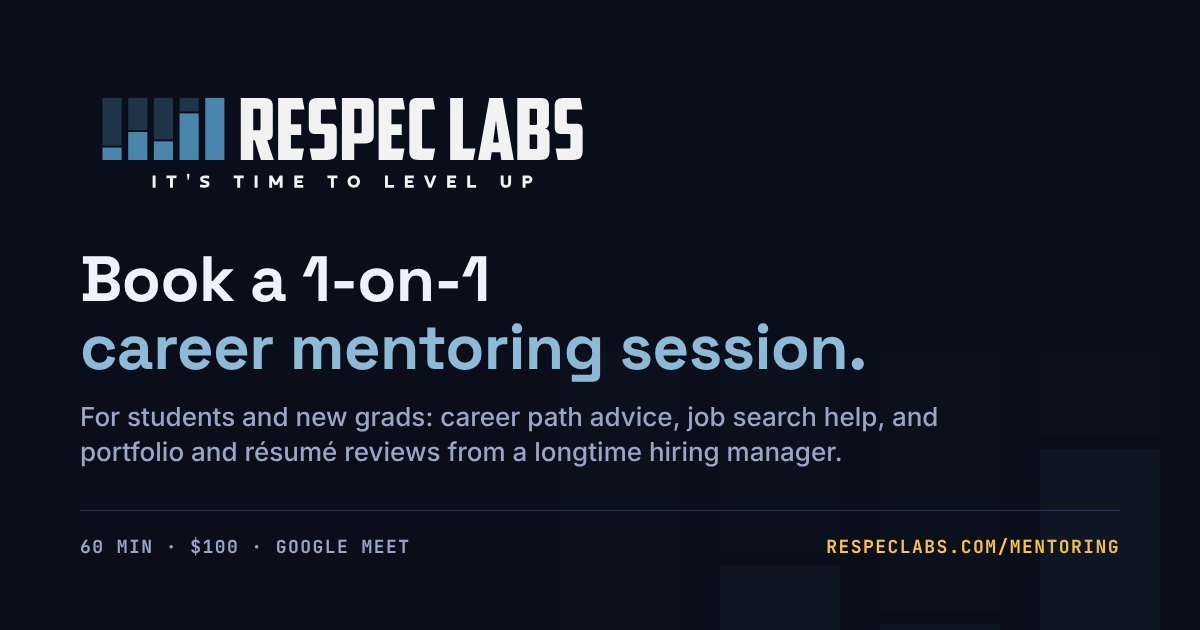
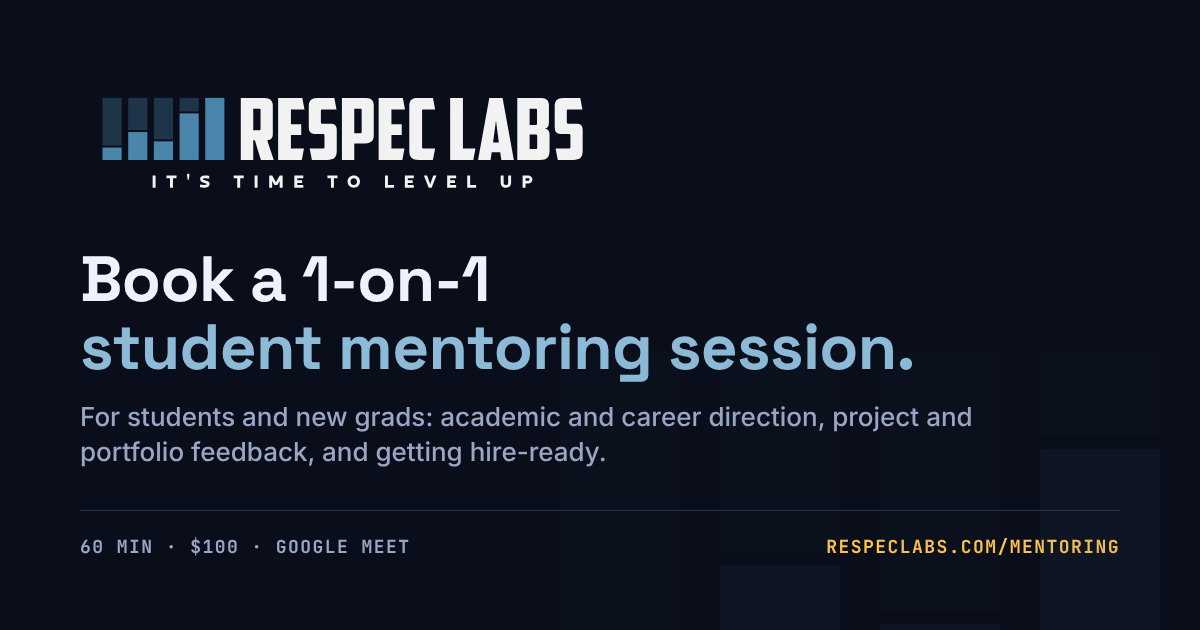
Tighten the four classes: Studio Strategist (consulting + fractional leadership), Pro Coach (professionals and job seekers), Academy Advisor (schools), Student Mentor (students at a student rate); update form, SEO, llms.txt, and /mentoring card
Claude-Session: https://claude.ai/code/session_01UxKuUrLDhhqrnA9ag9QBPw

Changed region(s): [[0.0617, 0.5127, 0.7708, 0.6032], [0.1542, 0.6333, 0.8017, 0.754]]

diff --git a/index.html b/index.html
@@ -48,10 +48,10 @@
         "@type": "OfferCatalog",
         "name": "Respec Labs services",
         "itemListElement": [
-          { "@type": "Offer", "itemOffered": { "@type": "Service", "name": "Studio Strategist: game studio consulting", "serviceType": "Game development consulting", "description": "Design team structure, hiring strategy, project direction, scope and milestone planning, and development advisory.", "audience": { "@type": "Audience", "audienceType": "Game studios and development teams" } } },
-          { "@type": "Offer", "itemOffered": { "@type": "Service", "name": "Interim Leader & Coach: fractional design leadership", "serviceType": "Fractional design leadership and coaching", "description": "Interim design leadership, management development, career advancement, mentorship, and workplace communication.", "audience": { "@type": "Audience", "audienceType": "Leads and game industry professionals" } } },
-          { "@type": "Offer", "itemOffered": { "@type": "Service", "name": "Academy Advisor: game design academic advisory", "serviceType": "Academic advisory", "description": "Game design curriculum development, program consulting, workshops, guest lectures, and career preparation.", "audience": { "@type": "Audience", "audienceType": "Schools and game design programs" } } },
-          { "@type": "Offer", "itemOffered": { "@type": "Service", "name": "Career Mentor: career mentoring for students and new grads", "serviceType": "Career mentoring", "description": "One-on-one career path advice, job search strategy, portfolio, website, résumé reviews, and interview prep from a longtime hiring manager and educator.", "audience": { "@type": "Audience", "audienceType": "Students, recent graduates, and entry-level candidates" } } }
+          { "@type": "Offer", "itemOffered": { "@type": "Service", "name": "Studio Strategist: game studio consulting and fractional design leadership", "serviceType": "Game development consulting and fractional design leadership", "description": "Consulting and fractional design leadership for studios: team structure, hiring strategy, project direction, scope and milestone planning, and interim leadership.", "audience": { "@type": "Audience", "audienceType": "Game studios and development teams" } } },
+          { "@type": "Offer", "itemOffered": { "@type": "Service", "name": "Pro Coach: career coaching for game industry professionals", "serviceType": "Career coaching", "description": "One-on-one coaching for working and between-jobs professionals: next-role and promotion strategy, leadership growth, résumé and portfolio reviews, and interview prep.", "audience": { "@type": "Audience", "audienceType": "Game industry professionals and job seekers" } } },
+          { "@type": "Offer", "itemOffered": { "@type": "Service", "name": "Academy Advisor: game design academic advisory", "serviceType": "Academic advisory", "description": "Curriculum advising, program consulting, workshops, and guest lectures for game design schools and programs.", "audience": { "@type": "Audience", "audienceType": "Schools and game design programs" } } },
+          { "@type": "Offer", "itemOffered": { "@type": "Service", "name": "Student Mentor: mentoring for students and new grads", "serviceType": "Student career mentoring", "description": "Mentoring at a student rate: academic and career direction, feedback on your projects and portfolio, and getting hire-ready with résumé reviews and interview prep.", "audience": { "@type": "Audience", "audienceType": "Students, recent graduates, and entry-level candidates" } } }
         ]
       }
     },
@@ -362,7 +362,7 @@
     <div class="hero-copy">
       <div class="eyebrow slogan"><img class="mark" src="assets/logo/symbol/symbol.svg?v=2" alt="">It's time to level up</div>
       <h1>Level up your <span>next chapter.</span></h1>
-      <p class="lead">Consulting, fractional design leadership, and coaching for game studios, creative organizations, and individuals, plus career mentoring for students breaking into games.</p>
+      <p class="lead">Consulting and fractional design leadership for game studios, coaching for professionals, advisory for schools, and mentoring for students breaking into games.</p>
       <div class="ctas">
         <a class="btn btn-primary" href="#contact">Get in touch →</a>
         <a class="btn btn-ghost" href="#services">See services</a>
@@ -401,25 +401,25 @@
       <article class="class">
         <div class="class-top"><span class="k-mono">CLASS 01</span><span class="badge"><img class="mark sprite" src="assets/classes/wizard.svg" alt="Wizard class icon for Studio Strategist game studio consulting" width="48" height="48"></span></div>
         <h3>Studio Strategist</h3>
-        <p>Design team structure, hiring strategy, project direction, scope and milestone planning, and development advisory.</p>
+        <p>Consulting and fractional design leadership for studios: team structure, hiring strategy, project direction, scope and milestone planning, and interim leadership.</p>
         <div class="best"><span>BEST FOR</span><b>Studios &amp; dev teams</b></div>
       </article>
       <article class="class">
-        <div class="class-top"><span class="k-mono">CLASS 02</span><span class="badge"><img class="mark sprite" src="assets/classes/fighter.svg" alt="Fighter class icon for Interim Leader and Coach design leadership" width="48" height="48"></span></div>
-        <h3>Interim Leader &amp; Coach</h3>
-        <p>Interim design leadership, management development, career advancement, mentorship, and workplace communication.</p>
-        <div class="best"><span>BEST FOR</span><b>Leads &amp; professionals</b></div>
+        <div class="class-top"><span class="k-mono">CLASS 02</span><span class="badge"><img class="mark sprite" src="assets/classes/fighter.svg" alt="Fighter class icon for Pro Coach career coaching for professionals" width="48" height="48"></span></div>
+        <h3>Pro Coach</h3>
+        <p>One-on-one coaching for working and between-jobs professionals: next-role and promotion strategy, leadership growth, résumé and portfolio reviews, and interview prep.</p>
+        <div class="best"><span>BEST FOR</span><b>Pros &amp; job seekers</b></div>
       </article>
       <article class="class">
         <div class="class-top"><span class="k-mono">CLASS 03</span><span class="badge"><img class="mark sprite" src="assets/classes/rogue.svg" alt="Rogue class icon for Academy Advisor game design advisory" width="48" height="48"></span></div>
         <h3>Academy Advisor</h3>
-        <p>Game design curriculum development, program consulting, workshops, guest lectures, and career preparation.</p>
+        <p>Curriculum advising, program consulting, workshops, and guest lectures for game design schools and programs.</p>
         <div class="best"><span>BEST FOR</span><b>Schools &amp; programs</b></div>
       </article>
       <article class="class">
-        <div class="class-top"><span class="k-mono">CLASS 04</span><span class="badge"><img class="mark sprite" src="assets/classes/cleric.svg" alt="Cleric class icon for Career Mentor career mentoring for students" width="48" height="48"></span></div>
-        <h3>Career Mentor</h3>
-        <p>One-on-one career path advice, job search strategy, portfolio, website, résumé reviews, and interview prep from a longtime hiring manager and educator.</p>
+        <div class="class-top"><span class="k-mono">CLASS 04</span><span class="badge"><img class="mark sprite" src="assets/classes/cleric.svg" alt="Cleric class icon for Student Mentor mentoring for students and new grads" width="48" height="48"></span></div>
+        <h3>Student Mentor</h3>
+        <p>Mentoring at a student rate: academic and career direction, feedback on your projects and portfolio, and getting hire-ready with résumé reviews and interview prep.</p>
         <div class="best"><span>BEST FOR</span><b>Students &amp; new grads</b></div>
       </article>
     </div>
@@ -469,10 +469,10 @@
         </div>
         <label>I'm interested in<select name="topic" required>
           <option value="" selected disabled>Choose one</option>
-          <option>Studio consulting (Studio Strategist)</option>
-          <option>Interim leadership &amp; coaching (Interim Leader &amp; Coach)</option>
-          <option>Academic advisory (Academy Advisor)</option>
-          <option>Student &amp; new grad mentoring (Career Mentor)</option>
+          <option>Studio consulting &amp; fractional leadership (Studio Strategist)</option>
+          <option>Career coaching for professionals (Pro Coach)</option>
+          <option>School &amp; program advisory (Academy Advisor)</option>
+          <option>Student &amp; new grad mentoring (Student Mentor)</option>
           <option>Something else</option>
         </select></label>
         <label>Message<textarea name="message" rows="4" maxlength="5000" required placeholder="Tell me about your studio, team, or goals. Students: include a link to your portfolio."></textarea></label>

diff --git a/mentoring.html b/mentoring.html
@@ -3,22 +3,22 @@
 <head>
 <meta charset="utf-8">
 <meta name="viewport" content="width=device-width, initial-scale=1">
-<title>Career mentoring session | Respec Labs</title>
-<meta name="description" content="Book a 60-minute career mentoring session on Google Meet for students and new grads: career path advice, job search help, and portfolio and résumé reviews from game director Daniele Nanni.">
+<title>Student mentoring session | Respec Labs</title>
+<meta name="description" content="Book a 60-minute mentoring session on Google Meet for students and new grads: academic and career direction, project and portfolio feedback, and getting hire-ready, with game director Daniele Nanni.">
 <meta name="robots" content="noindex, follow">
 <!-- Link preview card (Messages, Slack, LinkedIn, etc.). People are sent straight on to Cal.com below. -->
 <meta property="og:type" content="website">
 <meta property="og:site_name" content="Respec Labs">
-<meta property="og:title" content="Career mentoring session | Respec Labs">
-<meta property="og:description" content="Book a 60-minute career mentoring session on Google Meet for students and new grads: career path advice, job search help, and portfolio and résumé reviews from game director Daniele Nanni.">
+<meta property="og:title" content="Student mentoring session | Respec Labs">
+<meta property="og:description" content="Book a 60-minute mentoring session on Google Meet for students and new grads: academic and career direction, project and portfolio feedback, and getting hire-ready, with game director Daniele Nanni.">
 <meta property="og:url" content="https://respeclabs.com/mentoring">
 <meta property="og:image" content="https://respeclabs.com/assets/social/og-mentoring.png">
 <meta property="og:image:width" content="1200">
 <meta property="og:image:height" content="630">
-<meta property="og:image:alt" content="Book a 1-on-1 career mentoring session with Respec Labs">
+<meta property="og:image:alt" content="Book a 1-on-1 student mentoring session with Respec Labs">
 <meta name="twitter:card" content="summary_large_image">
-<meta name="twitter:title" content="Career mentoring session | Respec Labs">
-<meta name="twitter:description" content="Book a 60-minute career mentoring session on Google Meet for students and new grads: career path advice, job search help, and portfolio and résumé reviews from game director Daniele Nanni.">
+<meta name="twitter:title" content="Student mentoring session | Respec Labs">
+<meta name="twitter:description" content="Book a 60-minute mentoring session on Google Meet for students and new grads: academic and career direction, project and portfolio feedback, and getting hire-ready, with game director Daniele Nanni.">
 <meta name="twitter:image" content="https://respeclabs.com/assets/social/og-mentoring.png">
 <link rel="icon" href="/favicon.ico?v=2" sizes="16x16 32x32 48x48">
 <link rel="apple-touch-icon" sizes="180x180" href="/apple-touch-icon.png?v=2">

diff --git a/README.md b/README.md
@@ -26,4 +26,4 @@ The bar mark is five bars in a "rising build": filled to 20, 45, 30, 75 and 100%
 
 ## Booking links
 
-`intro.html`, `coaching.html`, and `mentoring.html` serve `respeclabs.com/intro` (free 15-min intro call), `respeclabs.com/coaching` (60-min $100 coaching for professionals), and `respeclabs.com/mentoring` (60-min $100 career mentoring for students and new grads, Cal.com slug `career-mentoring`). Each page carries its own link-preview card (title, description, and `assets/social/og-intro.png` / `og-coaching.png` / `og-mentoring.png`) and then sends visitors straight on to the hidden Cal.com booking link. To change where a link goes, edit the URL in that page's `meta refresh`, `location.replace` and fallback link. They are not linked from the site or listed in the sitemap; they're for sharing with people who reach out.
+`intro.html`, `coaching.html`, and `mentoring.html` serve `respeclabs.com/intro` (free 15-min intro call), `respeclabs.com/coaching` (60-min $100 coaching for professionals), and `respeclabs.com/mentoring` (60-min student mentoring for students and new grads, Cal.com slug `career-mentoring`). Each page carries its own link-preview card (title, description, and `assets/social/og-intro.png` / `og-coaching.png` / `og-mentoring.png`) and then sends visitors straight on to the hidden Cal.com booking link. To change where a link goes, edit the URL in that page's `meta refresh`, `location.replace` and fallback link. They are not linked from the site or listed in the sitemap; they're for sharing with people who reach out.

diff --git a/CONTENT.md b/CONTENT.md
@@ -8,7 +8,7 @@ Starfield · Fallout 76 · Battlefield 4 · Killzone 3 · Star Wars Battlefront 
 ## Skill sheet ("Your team, respecced")
 5-segment RPG meters, half segments allowed; readout shows the fill as N/5.
 
-Class card icons are 16×16 pixel sprites in `assets/classes/`: Class 01 wizard, Class 02 fighter, Class 03 rogue, Class 04 cleric (Career Mentor: students and new grads). The player profile CLASS row shows `director.svg`, a sprite of Daniele (swept hair, tortoiseshell glasses, grey beard, dark tee, game controller).
+Class card icons are 16×16 pixel sprites in `assets/classes/`: Class 01 wizard, Class 02 fighter, Class 03 rogue, Class 04 cleric (Student Mentor: students and new grads). The player profile CLASS row shows `director.svg`, a sprite of Daniele (swept hair, tortoiseshell glasses, grey beard, dark tee, game controller).
 
 | Stat | Readout | Segments |
 |---|---|---|
